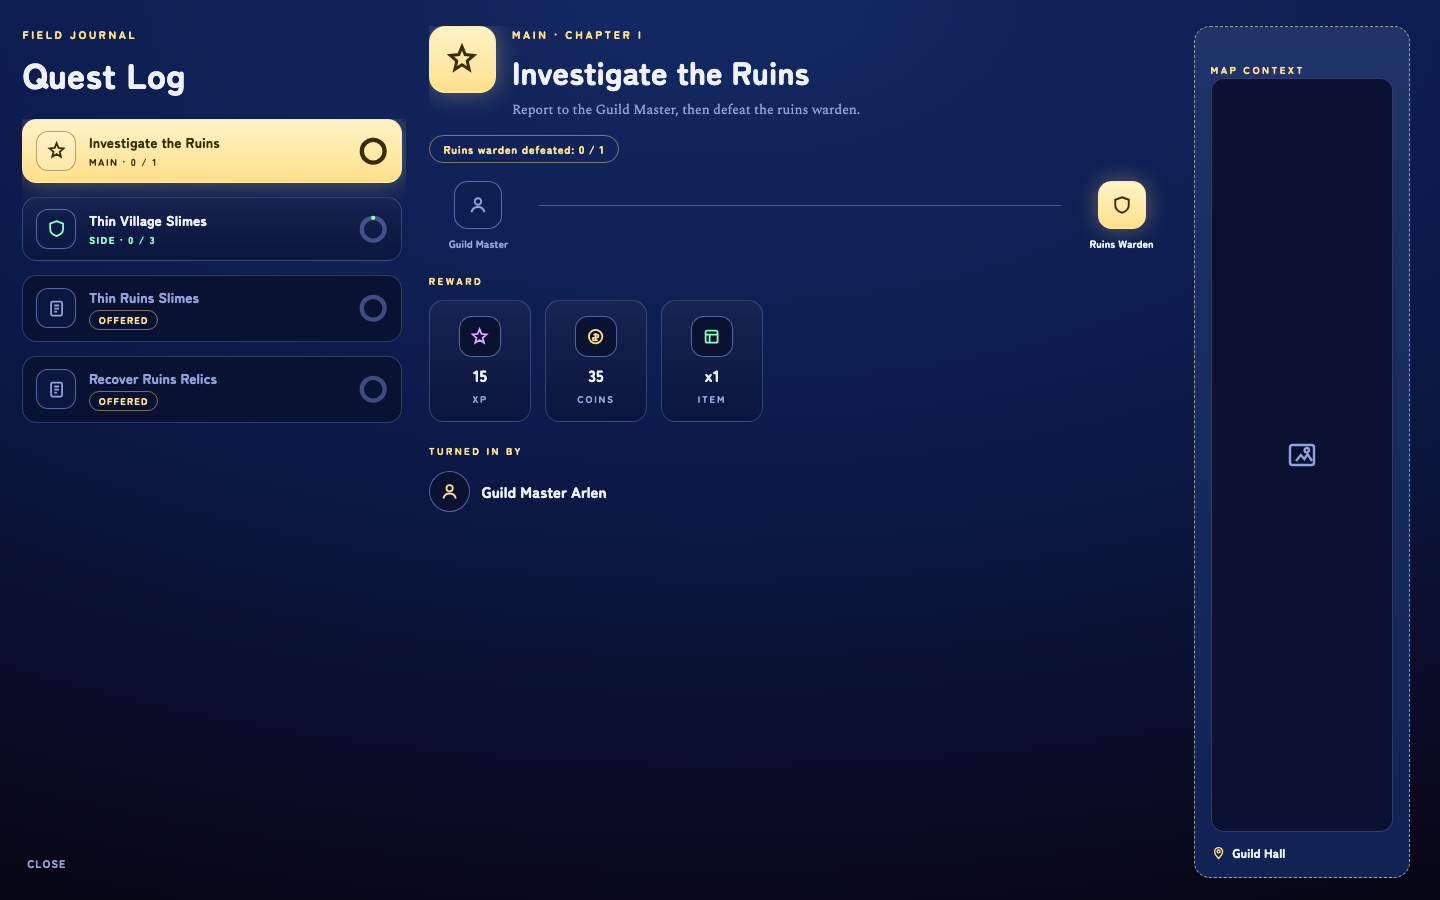
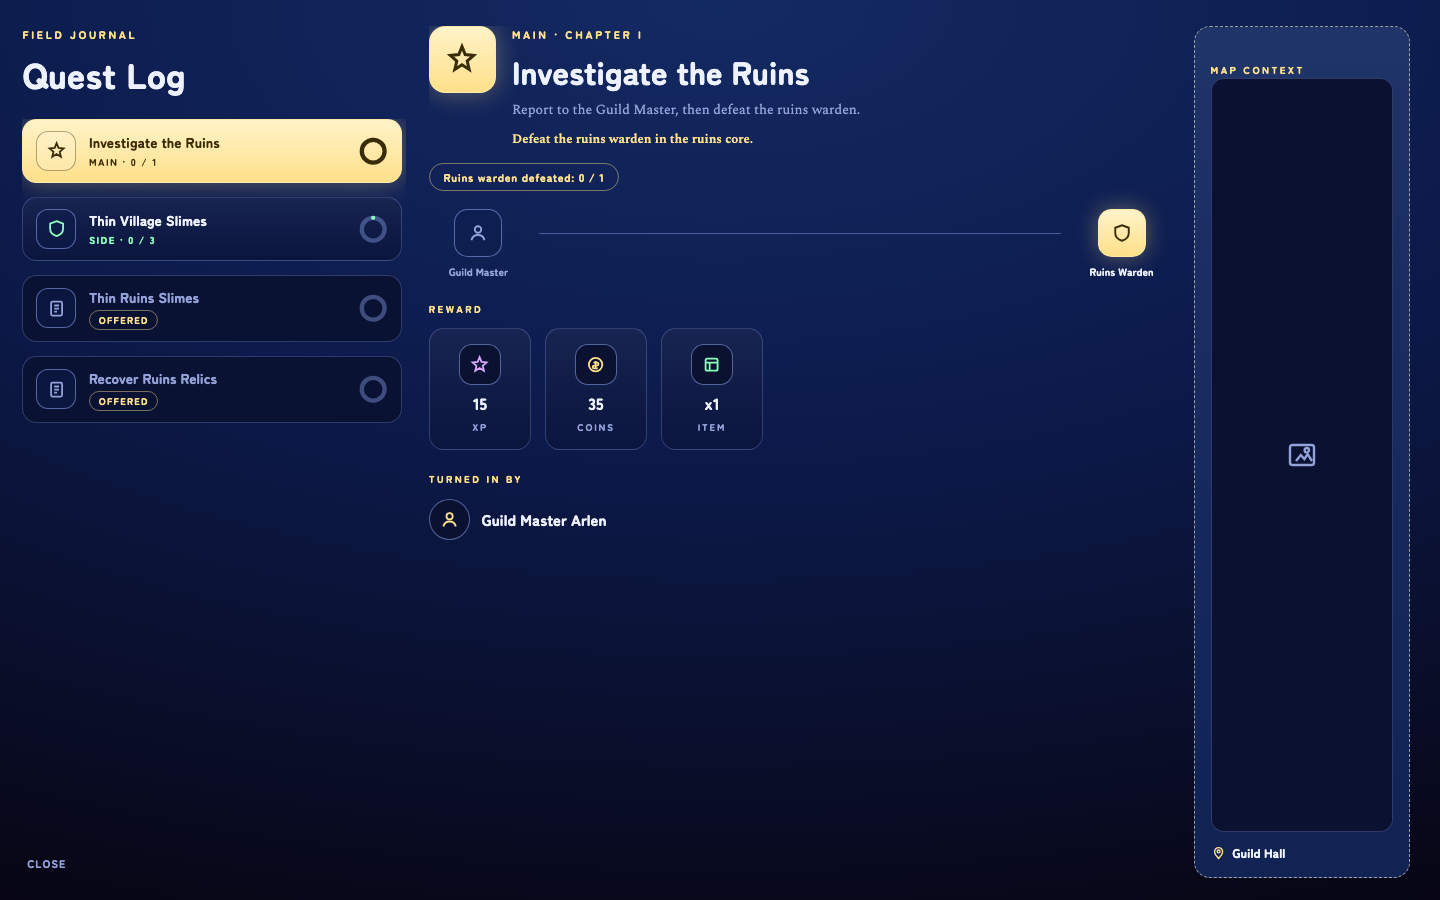
fix: render live quest objective and repair quest log gate e2e

diff --git a/tests/e2e/game.e2e.ts b/tests/e2e/game.e2e.ts
@@ -19986,14 +19986,18 @@ test('quest log shows main quest and accepts Guild side quests', async ({ page }
 	await expect(guildMasterDialog).toHaveCount(0);
 
 	await page.getByRole('button', { name: 'Menu' }).click();
-	await expect(fieldStatus(page)).toContainText(/^Quest accepted\.?$/);
 	await expect(page.getByRole('button', { name: 'Guild Quests' })).toHaveCount(0);
 	await commandBox(page).getByRole('button', { name: 'Quest', exact: true }).click();
 
 	const questDialog = page.getByRole('dialog', { name: 'Quest Log' });
 	await expect(questDialog).toBeVisible();
-	await expect(questDialog.getByText('Investigate the Ruins')).toBeVisible();
+	await expect(questDialog.getByTestId('quest-entry-main')).toContainText('Investigate the Ruins');
 	await expect(questDialog.getByText('Defeat the ruins warden in the ruins core.')).toBeVisible();
 	await expect(questDialog.getByText('Thin Village Slimes')).toBeVisible();
+	// Live progress renders in the detail panel only while the side quest is selected.
+	await questDialog.getByTestId('quest-entry-side').click();
 	await expect(questDialog.getByText('Village slimes defeated: 0 / 3')).toBeVisible();
+	await questDialog.getByRole('button', { name: 'Close' }).click();
+	// The status pill only renders while the command grid is closed (Task 4).
+	await expect(fieldStatus(page)).toContainText(/^Quest accepted\.?$/);
 });

diff --git a/src/lib/game/ui/QuestJournal.svelte b/src/lib/game/ui/QuestJournal.svelte
@@ -256,6 +256,7 @@
 							</p>
 							<h3 class="quest-detail-title font-display">{detail.row.entry.title}</h3>
 							<p class="quest-detail-desc">{detail.row.entry.description}</p>
+							<p class="quest-detail-objective">{detail.row.entry.objective}</p>
 						</div>
 					</header>
 
@@ -384,8 +385,6 @@
 						</p>
 					</aside>
 				{/if}
-			{:else}
-				<p class="quest-rail-hint font-display">{t($locale, 'ui.questJournalEmpty')}</p>
 			{/if}
 		</section>
 	</div>
@@ -653,6 +652,13 @@
 		margin: 0.35rem 0 0;
 		font-size: 0.86rem;
 		color: var(--color-muted);
+	}
+
+	.quest-detail-objective {
+		margin: 0.55rem 0 0;
+		font-size: 0.8rem;
+		font-weight: 700;
+		color: var(--color-gold);
 	}
 
 	.quest-detail-progress {

diff --git a/src/lib/game/i18n/translate.test.ts b/src/lib/game/i18n/translate.test.ts
@@ -71,9 +71,6 @@ describe('translation lookup', () => {
 		expect(t('en', 'ui.equipmentSlots.weapon')).toBe('Weapon');
 		expect(t('en', 'ui.equipmentSlots.accessory')).toBe('Accessory');
 		expect(t('en', 'ui.loadGameShellError')).toBe('Unable to start the game shell.');
-		expect(t('en', 'ui.reward', { rewardSummary: '15 XP / 35 coins' })).toBe(
-			'Reward: 15 XP / 35 coins'
-		);
 		expect(t('en', 'ui.keyQuantity', { quantity: 2 })).toBe('Key x2');
 		expect(t('en', 'ui.priceBadge', { price: 10 })).toBe('10c');
 		expect(t('en', 'ui.itemKinds.consumable')).toBe('consumable');

diff --git a/src/lib/game/GameShell.svelte.spec.ts b/src/lib/game/GameShell.svelte.spec.ts
@@ -1056,6 +1056,8 @@ describe('GameShell heroic quest journal', () => {
 
 		// Live objective progress from the HUD payload.
 		await expect.element(detail.getByText(/Clues found: 1 \/ 3/)).toBeVisible();
+		// The live objective sentence renders in the detail panel.
+		await expect.element(detail.getByText('Enter the ruins and investigate.')).toBeVisible();
 	});
 });
 

diff --git a/src/lib/game/i18n/messages/ja.ts b/src/lib/game/i18n/messages/ja.ts
@@ -149,7 +149,6 @@ export const ja = {
 		back: '戻る',
 		skillTitle: 'スキル',
 		noSkillsYet: 'まだスキルを覚えていない',
-		reward: '報酬: {{rewardSummary}}',
 		quantity: 'x{{quantity}}',
 		keyQuantity: 'キーx{{quantity}}',
 		statModifier: '{{stat}} +{{value}}',

diff --git a/src/lib/game/i18n/messages/zh-Hant.ts b/src/lib/game/i18n/messages/zh-Hant.ts
@@ -149,7 +149,6 @@ export const zhHant = {
 		back: '返回',
 		skillTitle: '技能',
 		noSkillsYet: '尚未學會任何技能',
-		reward: '獎勵：{{rewardSummary}}',
 		quantity: 'x{{quantity}}',
 		keyQuantity: '關鍵道具 x{{quantity}}',
 		statModifier: '{{stat}} +{{value}}',

diff --git a/src/lib/game/i18n/messages/en.ts b/src/lib/game/i18n/messages/en.ts
@@ -146,7 +146,6 @@ export const en = {
 		back: 'Back',
 		skillTitle: 'Skill',
 		noSkillsYet: 'No skills learned yet',
-		reward: 'Reward: {{rewardSummary}}',
 		quantity: 'x{{quantity}}',
 		keyQuantity: 'Key x{{quantity}}',
 		statModifier: '{{stat}} +{{value}}',
